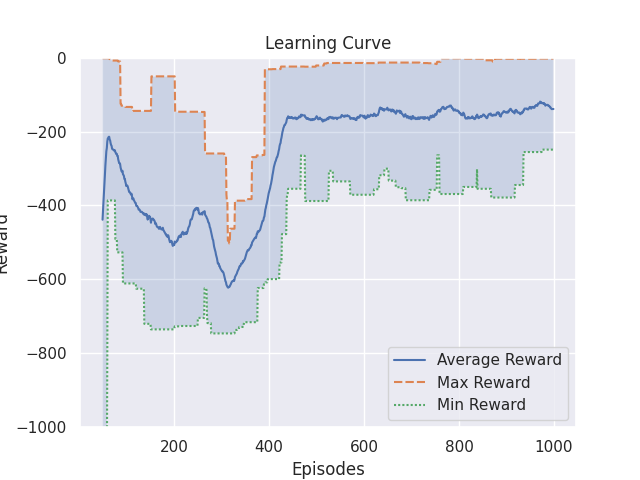
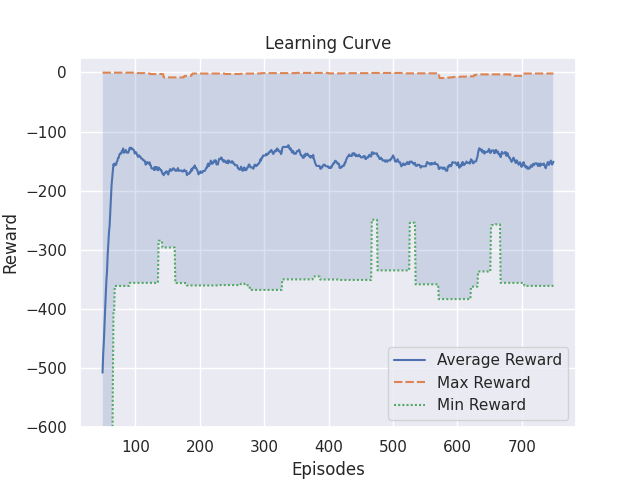
Update pendulum

diff --git a/Classic Control/Pendulum/utilities.py b/Classic Control/Pendulum/utilities.py
@@ -94,7 +94,7 @@ def learning_curve(episode_rewards, log_dir, window=10):
     ax.set_title('Learning Curve')
     ax.set_ylabel('Reward')
     ax.set_xlabel('Episodes')
-    ax.set(ylim=(-1000, 0))
+    ax.set(ylim=(-600, 25))
 
     # Save figure
     plt.savefig(log_dir + 'learning_curve' + str(window) + '.png')
